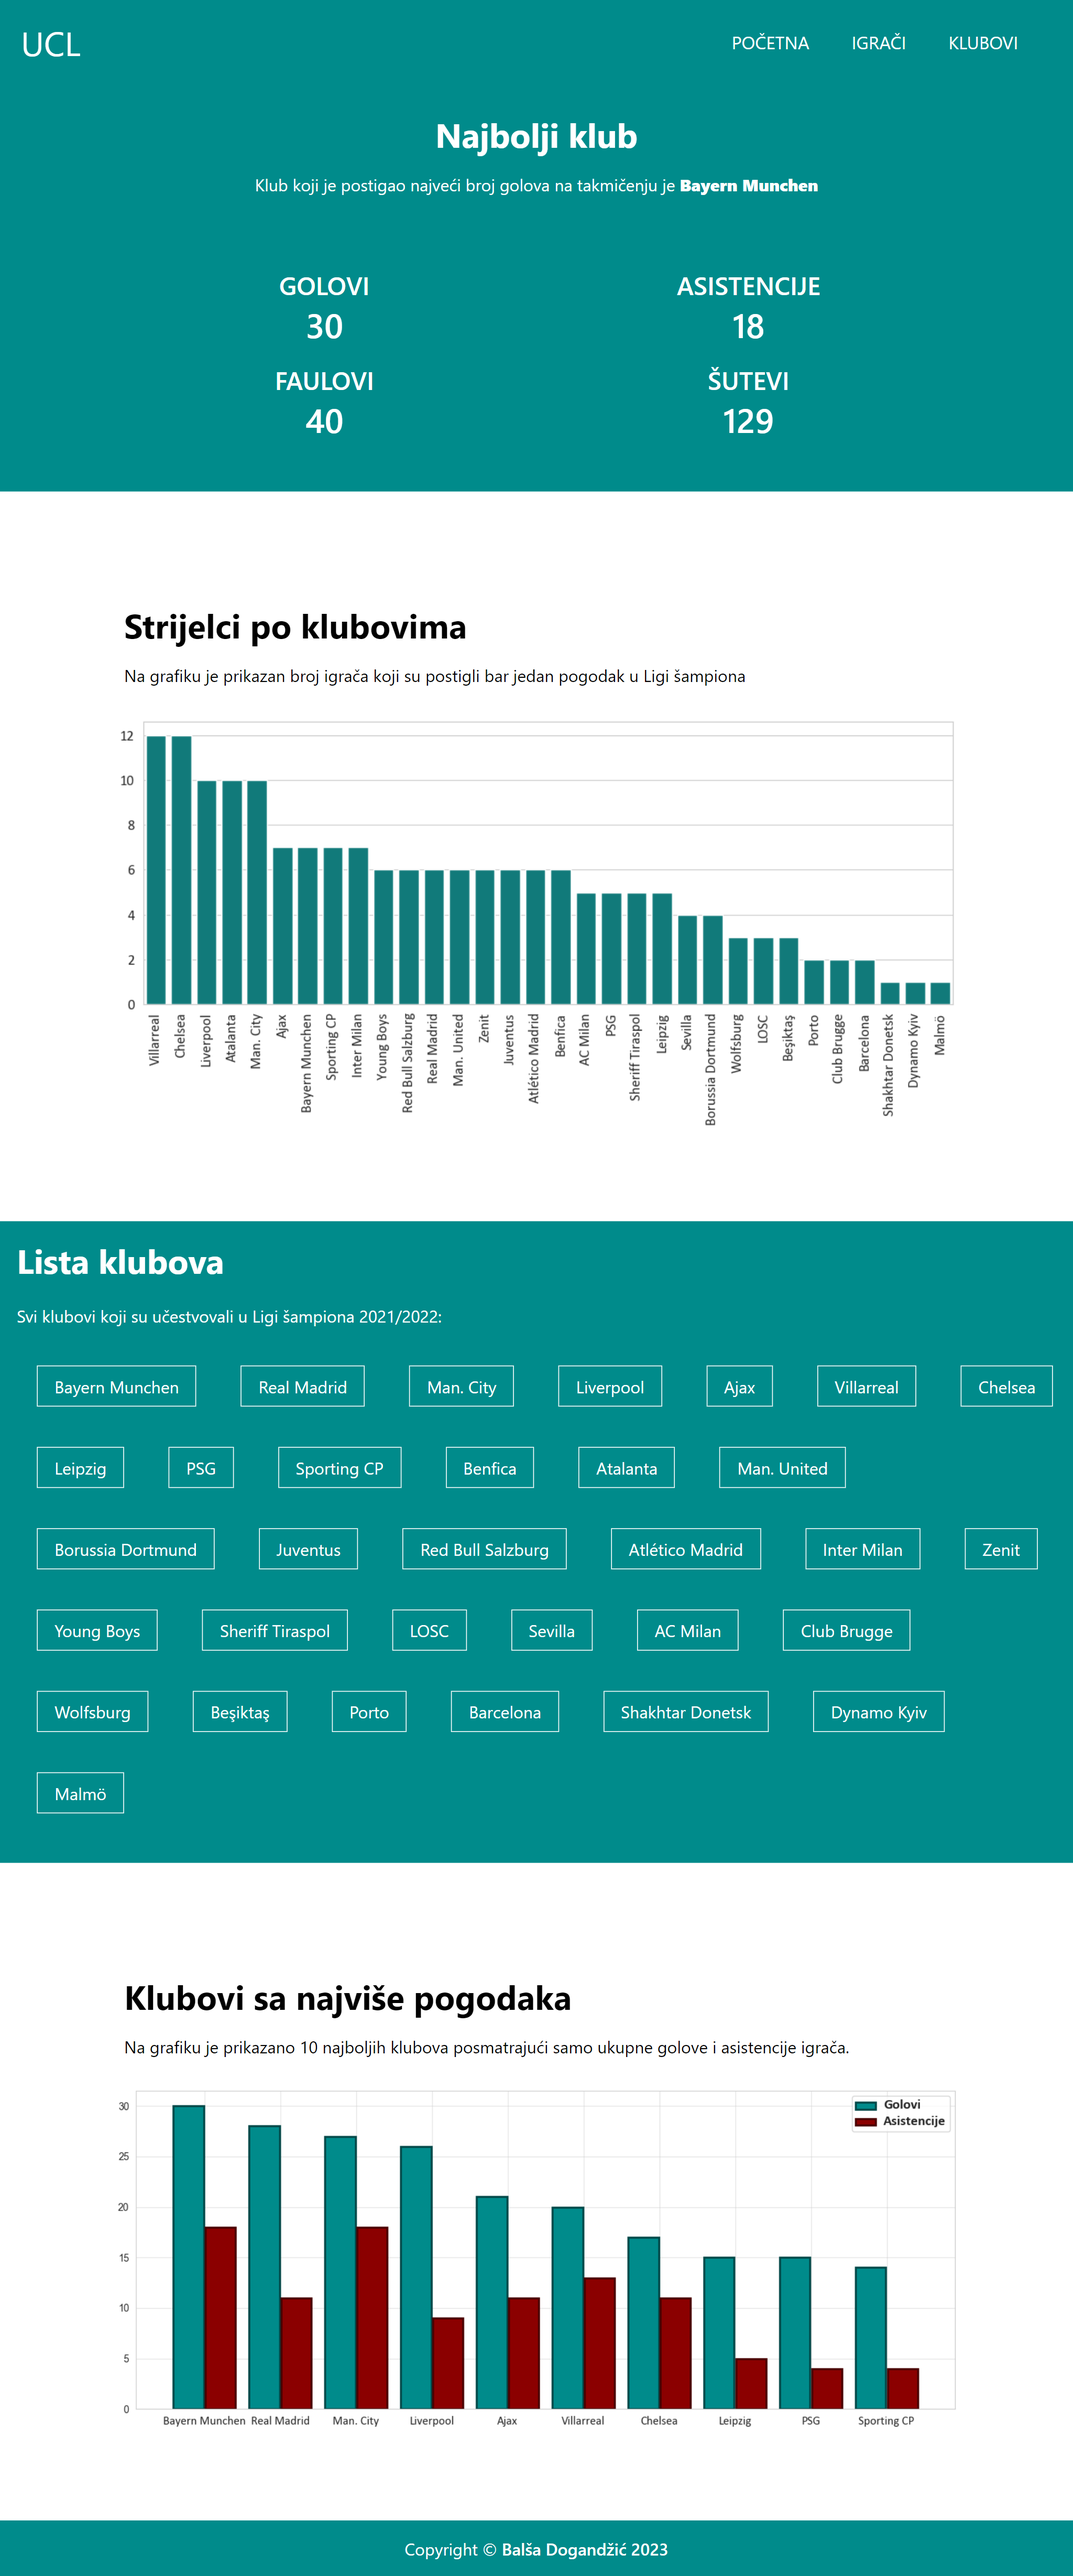
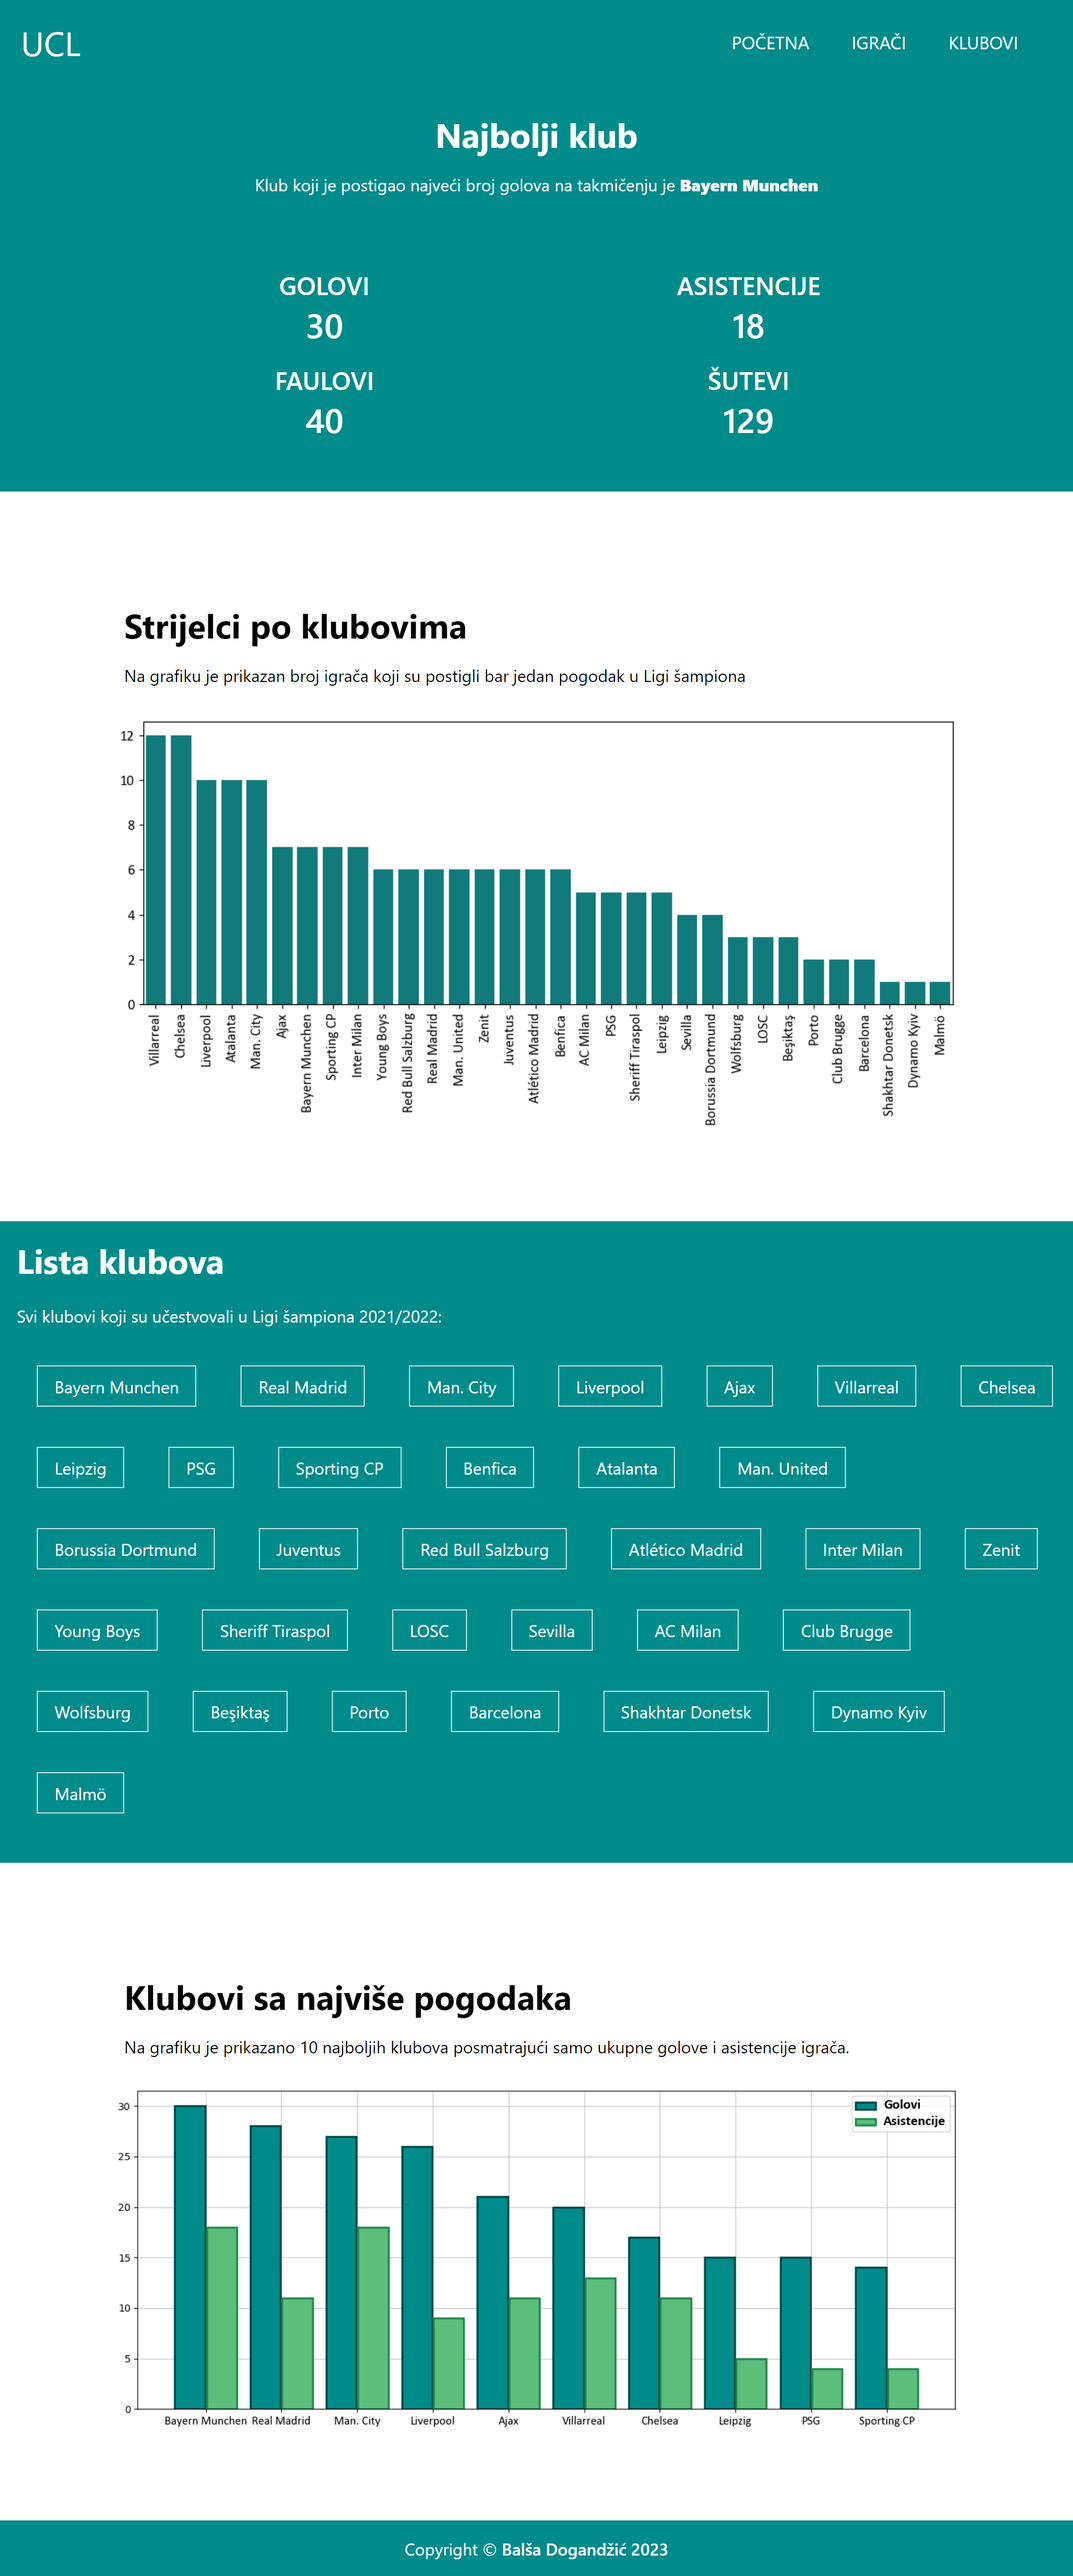
Pictures of the website

diff --git a/datavisualizer/static/css/style.css b/datavisualizer/static/css/style.css
@@ -37,7 +37,7 @@ hr {
 /*Index carousel*/
 .carousel {
   height: 100vh;
-  background-image: url("/static/img/carousel_cover1.jpg");
+  background-image: url("/static/hero.jpg");
   background-position: center;
   background-repeat: no-repeat;
   background-size: cover;

diff --git a/datavisualizer/core/utils.py b/datavisualizer/core/utils.py
@@ -18,7 +18,7 @@ def one_bar_chart(x, y):
     plt.rcdefaults()
     plt.switch_backend("AGG")
     plt.figure(figsize = (12, 5))
-    plt.grid(True, alpha=0.5, zorder=0)
+    plt.grid(True, alpha=0.7, zorder=0)
     plt.bar(x, y, zorder=3, color='#008b8b', edgecolor='#004646', linewidth=2)
     plt.xticks(fontsize='13', fontfamily='calibri')
     plt.yticks(fontsize='13', fontfamily='calibri')
@@ -31,9 +31,9 @@ def two_bar_chart(x, y, z):
     plt.switch_backend("AGG")
     plt.figure(figsize = (12, 5))
     x_axis = np.arange(len(x))
-    plt.grid(True, alpha=0.5, zorder=0)
+    plt.grid(True, alpha=0.7, zorder=0)
     plt.bar(x_axis - 0.21, y, 0.4, label="Golovi", color='#008b8b', edgecolor='#004646', linewidth=2, zorder=3)
-    plt.bar(x_axis + 0.21, z, 0.4, label="Asistencije", color='#8B0000', edgecolor='#470101', linewidth=2, zorder=3)
+    plt.bar(x_axis + 0.21, z, 0.4, label="Asistencije", color='#5DBE7C', edgecolor='#20884B', linewidth=2, zorder=3)
     plt.xticks(x_axis, x, fontsize='12', fontfamily='calibri')
     legend = plt.legend()
     legend_text = legend.get_texts()
@@ -47,9 +47,9 @@ def horizontal_barchart(x, y, z):
     plt.switch_backend("AGG")
     plt.figure(figsize=(12, 6))
     y_axis = np.arange(len(y))
-    plt.grid(True, alpha=0.5, zorder=0)
+    plt.grid(True, alpha=0.7, zorder=0)
     plt.barh(y_axis - 0.22, x, 0.4, label='Golovi', color='#008b8b', edgecolor='#004646', linewidth=2, zorder=3)
-    plt.barh(y_axis + 0.22, z, 0.4, label='Asistencije', color='#8B0000', edgecolor='#470101', linewidth=2, zorder=3)
+    plt.barh(y_axis + 0.22, z, 0.4, label='Asistencije', color='#5DBE7C', edgecolor='#20884B', linewidth=2, zorder=3)
     plt.yticks(y_axis, y, fontsize='13', fontfamily='calibri')
     plt.xticks(fontsize='12', fontfamily='calibri')
     legend = plt.legend()
@@ -65,7 +65,7 @@ def performance_check(x, y, z, name):
     plt.figure(figsize = (12, 6))
     plt.grid(True, linestyle='--', alpha=0.5, zorder=0)
     plt.plot(x, y, label=name, color='#008b8b', linewidth=2, marker='o', markersize=5, zorder=3)
-    plt.plot(x, z, label="Prosjek", color='#8B0000', linewidth=2, marker='o', markersize=5, zorder=3)
+    plt.plot(x, z, label="Prosjek", color='#20884B', linewidth=2, marker='o', markersize=5, zorder=3)
     legend = plt.legend()
     legend_text = legend.get_texts()
     plt.setp(legend_text, fontname='Calibri', fontsize=14, fontweight='bold')
